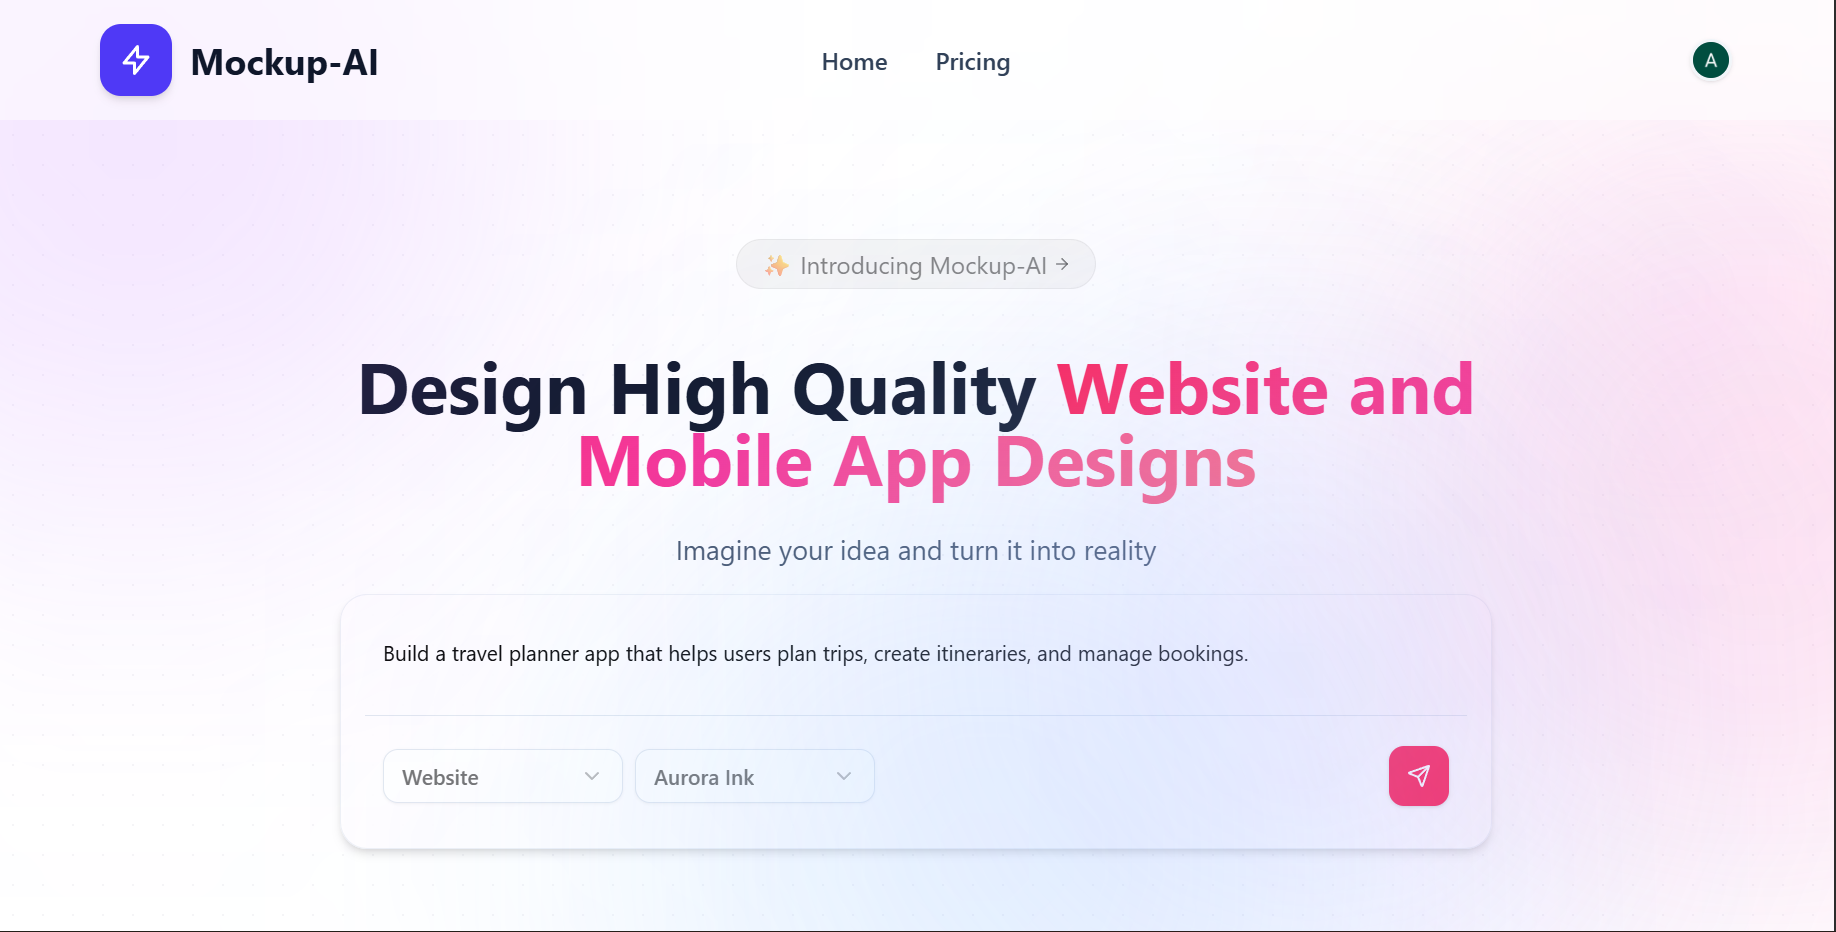
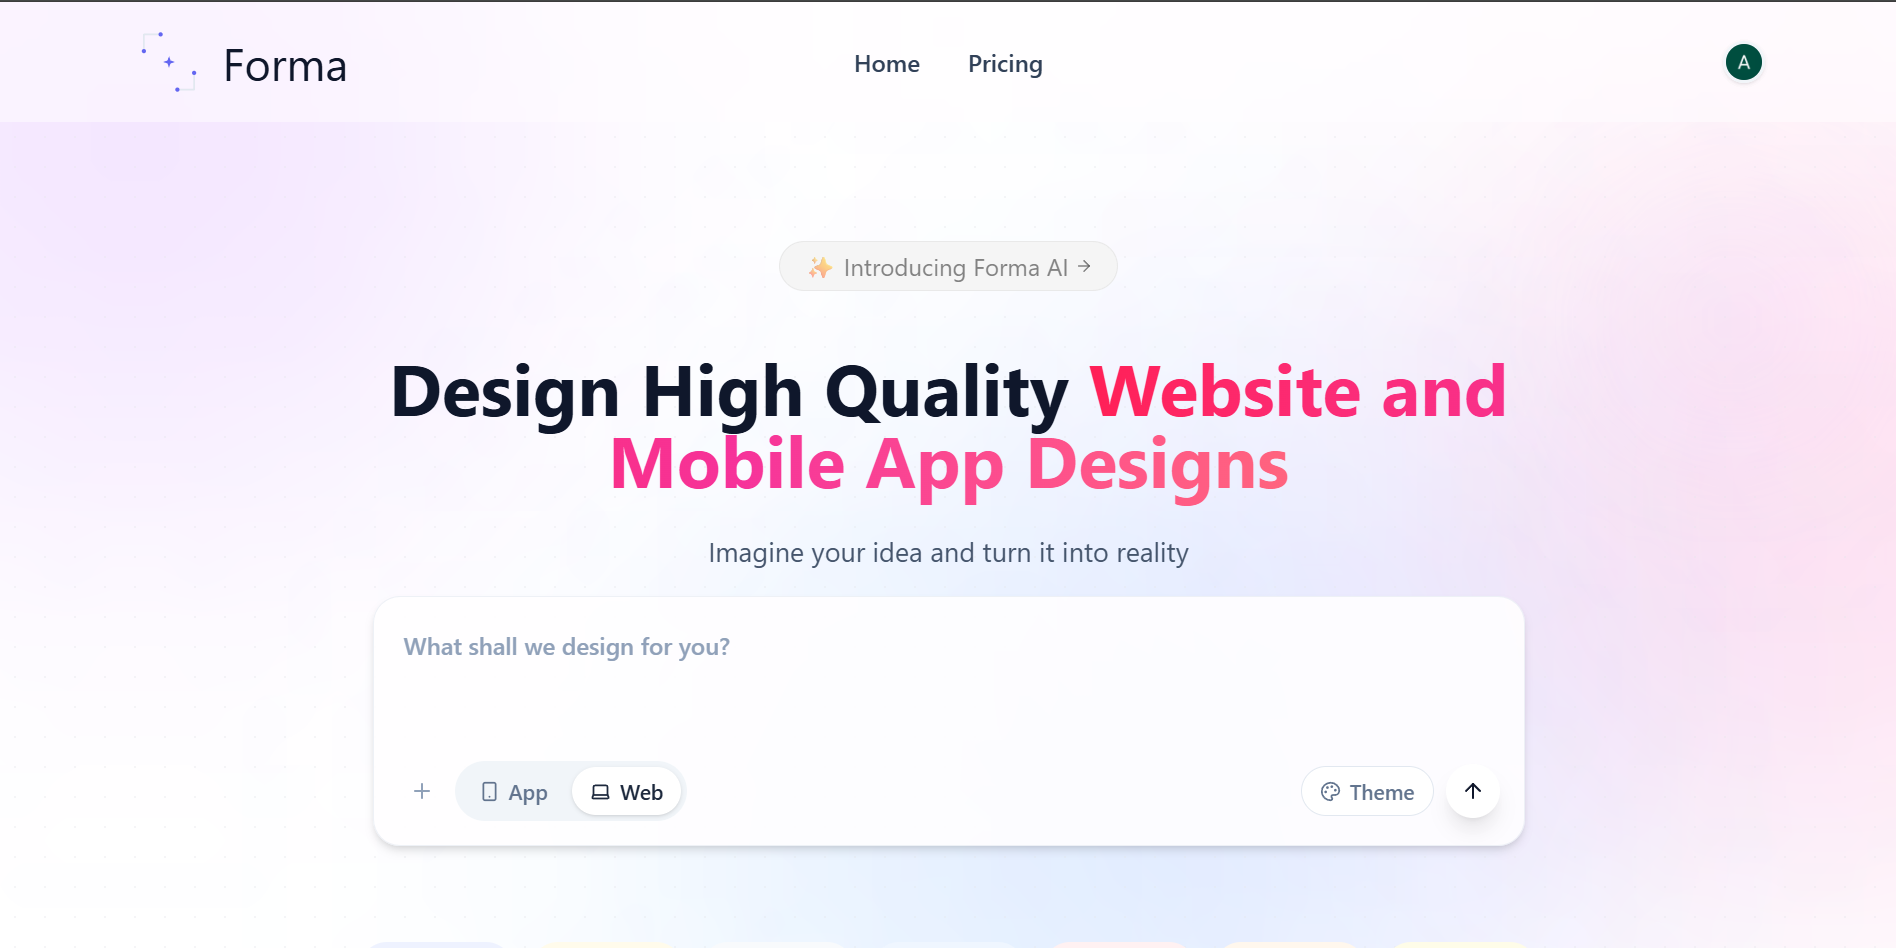
docs: update README and add project preview image

diff --git a/README.md b/README.md
@@ -1,6 +1,6 @@
-# ✨ Mockup-AI: Turn Your Ideas into Stunning UI Designs
+# ✨ Forma: Turn Your Ideas into Stunning UI Designs
 
-Mockup-AI is a powerful, AI-driven platform designed to transform your creative concepts into high-fidelity Website and Mobile App mockups in seconds. Whether you're a founder, designer, or developer, Mockup-AI helps you bridge the gap between imagination and reality using state-of-the-art Generative AI.
+Forma is a powerful, AI-driven platform designed to transform your creative concepts into high-fidelity Website and Mobile App mockups in seconds. Whether you're a founder, designer, or developer, Forma helps you bridge the gap between imagination and reality using state-of-the-art Generative AI.
 
 ![Hero Section](public/preview.png)
 
@@ -8,10 +8,11 @@ Mockup-AI is a powerful, AI-driven platform designed to transform your creative 
 
 - **🤖 AI-Powered Generation**: Simply describe your project, and watch as our AI generates full-page designs with relevant components, themes, and layouts.
 - **📱 Multi-Device Support**: Tailor your designs specifically for Web or Mobile platforms.
-- **🎨 Intelligent Theming**: Choose from a variety of curated themes (Modern, Minimalist, Corporate, etc.) to match your brand identity.
-- **✍️ Live Editor**: Refine and edit generated screens using an intuitive interface. Drag, drop, and resize elements to perfection.
-- **📂 Project Management**: Keep all your designs organized. Save, retrieve, and iterate on multiple projects from your personal dashboard.
-- **✨ Premium UI/UX**: Built with a focus on modern aesthetics—featuring glassmorphism, smooth animations, and a sleek dark mode.
+- **🎨 WCAG-Relative Theme Engine**: Color-harmonized custom theme builder. Automatically derives all 18 CSS token variables (muted, card, border, foreground texts) from user colors using luminance contrast math so themes always look coherent.
+- **📥 In-Memory CSS Import**: Upload brand `.css` files directly in-memory to automatically extract CSS variable colors (`--primary`, `--background`, `--card`, etc.) and prefill theme pickers.
+- **🔍 Smooth Zooming & Panning Canvas**: Highly responsive canvas navigation utilizing fractional wheel/trackpad scaling steps (`0.08`), trackpad pinch support (`smoothStep`), and velocity-based inertial momentum deceleration.
+- **🎬 True Fullscreen Prototype Player**: Interactive HUD presentation player that requests native browser fullscreen API, expands web mockups to full page width (`100vw`), wraps mobile mockups in notched frames, and supports keyboard (arrows & Esc) navigation.
+- **⚡ Staggered Skeleton States**: Staggered loading stacks and pulse loading screen configs to prevent blank canvas whiteouts.
 
 ## 🛠️ Tech Stack
 
@@ -19,12 +20,37 @@ Mockup-AI is a powerful, AI-driven platform designed to transform your creative 
 - **Styling**: [Tailwind CSS](https://tailwindcss.com/), [Radix UI](https://www.radix-ui.com/), [Lucide React](https://lucide.dev/)
 - **Authentication**: [Clerk](https://clerk.com/)
 - **Database & ORM**: [Neon DB](https://neon.tech/) (PostgreSQL) + [Drizzle ORM](https://orm.drizzle.team/)
-- **AI Engine**: [Google Gemini 2.5 Flash](https://ai.google.dev/)
-- **Utilities**: `html2canvas` (Exporting), `react-rnd` (Resizing/Dragging), `recharts` (Data Viz)
+- **AI Engine**: [Google Gemini 2.5 Flash / 3.5 Flash](https://ai.google.dev/)
+- **Utilities**: `html2canvas` (Exporting), `react-rnd` (Resizing/Dragging), `react-zoom-pan-pinch` (Canvas Nav)
 
 ## 🏗️ Architecture & Code Modularization
 
 The codebase follows a highly modular, decoupled architecture following **SOLID** principles:
+
+```text
+┌────────────────────────────────────────────────────────────────────────┐
+│                              CLIENT / UI                               │
+│  (React 19 Components, Context APIs, Next.js Pages, Clerk Auth Buttons)│
+└───────────────────┬────────────────────────────────┬───────────────────┘
+                    │ (HTTP Requests)                │ (Client State)
+                    ▼                                ▼
+┌──────────────────────────────────────┐  ┌──────────────────────────────┐
+│       NEXT.JS API ROUTING LAYER      │  │        REACT CONTEXTS        │
+│    (app/api/project/route.ts, etc.)  │  │  (SettingContext, Refresher) │
+└───────────────────┬──────────────────┘  └──────────────────────────────┘
+                    │ (Domain controller calls)
+                    ▼
+┌────────────────────────────────────────────────────────────────────────┐
+│                            CONTROLLER LAYER                            │
+│           (ai.controller.ts, project.controller.ts, etc.)              │
+└───────────────────┬────────────────────────────────┬───────────────────┘
+                    │                                │
+                    ▼ (Drizzle SQL Query)            ▼ (Gemini AI Prompt)
+┌──────────────────────────────────────┐  ┌──────────────────────────────┐
+│           NEON POSTGRESQL            │  │          GEMINI API          │
+│        (Database Schema Layer)       │  │    (Generative AI Model)     │
+└──────────────────────────────────────┘  └──────────────────────────────┘
+```
 
 ### 1. Routing Layer (`app/api/`)
 Handles HTTP concerns exclusively. Route handlers in the `route.ts` files parse parameters, authenticate Clerk sessions, and return responses. They do **not** run database queries or directly invoke AI logic.
@@ -36,6 +62,52 @@ Encapsulates all database operations, transaction handling, and third-party AI A
 - **[ai.controller.ts](file:///d:/uiux-mockup-ai/controllers/ai.controller.ts)**: Manages Gemini system instruction setups, config outlines, UI generations, edits, and additional screen appending.
 
 ---
+
+## 📂 Project Structure
+
+```text
+forma/
+├── app/                       # Next.js App Router Structure
+│   ├── api/                   # HTTP Request Routing Layer
+│   │   ├── edit-screen/
+│   │   ├── generate-config/
+│   │   ├── project/
+│   │   └── user/
+│   ├── dashboard/             # Project Explorer Dashboard
+│   ├── project/               # Canvas Workspace & Prototype Viewers
+│   ├── sign-in/
+│   ├── sign-up/
+│   ├── layout.tsx             # Global Font & Clerk Providers
+│   └── page.tsx               # Homepage / Workspace Creator Landing
+├── controllers/               # Business Domain Controllers (SOLID)
+│   ├── ai.controller.ts       # AI Generations, Blueprints, & Appends
+│   ├── project.controller.ts  # Neon DB Project Transactions
+│   └── user.controller.ts     # User Account Profile Mappings
+├── components/                # Modular Interface Elements
+│   ├── custom/                # Custom Color Theme Builder Panel
+│   └── ui/                    # Base Radix-UI/Shadcn Primitives
+├── _shared/                   # Global Layout / Composition Components
+│   ├── Canvas.tsx             # Pan & Zoom Workspace View
+│   ├── Footer.tsx             # Main Landing Footer
+│   ├── Header.tsx             # Authentication Navbar Controls
+│   ├── Hero.tsx               # Redesigned Search Input & Themes Popover
+│   ├── PrototypePlayer.tsx    # Fullscreen Native Mode HUD Presentation Player
+│   ├── ScreenFrame.tsx        # Drag/Resize iframe Wrapper
+│   └── ScreenSkeleton.tsx     # Staggered Staging Loading States
+├── config/                    # Drivers & Client Initializers
+│   ├── db.ts                  # Neon Serverless PostgreSQL Instance
+│   ├── gemini.ts              # Google GenAI SDK Setup
+│   └── schema.ts              # Drizzle ORM Database Schema Definitions
+├── context/                   # Context State Containers
+│   ├── SettingContext.tsx     # Workspace Sizing state
+│   └── RefreshDataContext.tsx # Workspace Refresh state
+├── data/                      # Presets & Prompt Templates
+│   ├── Theme.ts               # Color-harmony mathematical utility code
+│   ├── prompt.ts              # Blueprint & Screen Code System Instructions
+│   └── constants.ts           # HTML wrapping templates
+├── types/                     # Shared Interfaces & Type Assertions
+└── tailwind.config.js         # Base Utility & Custom Font Mappings
+```
 
 ## ⚙️ Getting Started
 
@@ -50,8 +122,8 @@ Encapsulates all database operations, transaction handling, and third-party AI A
 
 1. **Clone the repository**:
    ```bash
-   git clone https://github.com/your-username/uiux-mockup-ai.git
-   cd uiux-mockup-ai
+   git clone https://github.com/your-username/forma.git
+   cd forma
    ```
 
 2. **Install dependencies**: